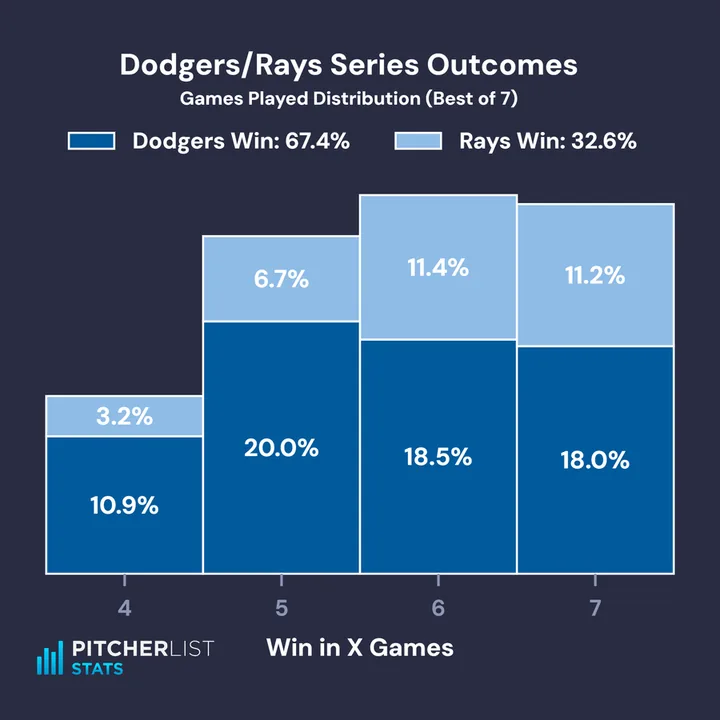
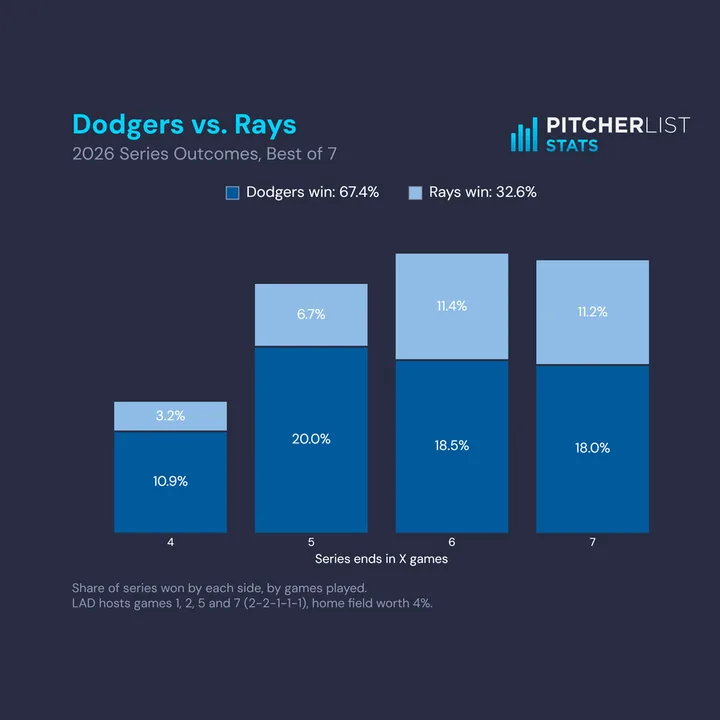
Series Win: Swing Profiles figures
Both charts now use the Swing Profiles figure template (teal matchup
title, muted subtitle, wordmark top right, footer note, regular-weight
axis text), with no gridlines and no x spine.

- Series win%: teal line with ringed markers and value labels; y axis
  trimmed to its first and last labelled ticks, labelled
  "<higher seed> Series Win%"; dashed 50% line.
- Outcomes: no y axis; team-coloured stacked bars, labels inside or in a
  team-coloured tag above thin slices; each side's series win% centred
  over the bars; a faint cross-hatch on the lower seed when the two team
  colours look alike (CIELAB distance under 30).

?style=app keeps the Streamlit app's figures. Homepage tile and README
updated.

Changed region(s): [[0.0611, 0.0611, 0.9472, 0.8556], [0.0306, 0.8861, 0.3056, 0.9472], [0.3667, 0.8861, 0.6417, 0.9167]]

diff --git a/series-win/chart.js b/series-win/chart.js
@@ -327,10 +327,265 @@
     if (opts.wordmark) ctx.drawImage(opts.wordmark, logo.x, logo.y, logo.w, logo.h);
   }
 
-  async function render(which, canvas, data, opts, scale = 2) {
+  // ---- the Swing Profiles style ------------------------------------------------------
+  //
+  // The page's figures: the same two charts in the Swing Profiles figure's clothes -- an
+  // 8 x 6 in figure at 200 dpi, its axes box (left 0.10, right 0.96, 0.95 in from the
+  // top, 1.08 in from the bottom), the matchup as a large teal title with a muted
+  // subtitle under it, the wordmark top right, regular-weight 9 / 10 pt axis text, 2 pt
+  // lines with surface-edged markers, and a footer note bottom left. No gridlines and no
+  // x spine; the series win% chart keeps a y axis trimmed to its ticks, the outcomes
+  // chart has none. (The app's own matplotlib look above is kept as ?style=app.)
+
+  const SW = {
+    w: 8, h: 6, left: 0.10, right: 0.96, top: 0.95, bottom: 1.08,
+    header: "#00D4FF", sub: "#8D96B3", chrome: "#8D96B3", line: "#00D4FF",
+  };
+
+  function swingFigure(canvas, scale) {
+    const W = SW.w * DPI, H = SW.h * DPI;
+    canvas.width = Math.round(W * scale); canvas.height = Math.round(H * scale);
+    const ctx = canvas.getContext("2d");
+    ctx.setTransform(scale, 0, 0, scale, 0, 0);
+    ctx.fillStyle = BACKGROUND;
+    ctx.fillRect(0, 0, W, H);
+    const ax = { x0: SW.left * W, x1: SW.right * W, y0: SW.top * DPI, y1: H - SW.bottom * DPI };
+    const font = (size, weight) => { ctx.font = `${weight} ${size * PT}px ${FONT}`; };
+    const text = (s, x, y, { size = 10, weight = 400, colour = WHITE, ha = "left", va = "alphabetic", rotate = 0 } = {}) => {
+      ctx.save();
+      font(size, weight);
+      ctx.fillStyle = colour;
+      ctx.textAlign = ha;
+      ctx.textBaseline = va;
+      ctx.translate(x, y);
+      if (rotate) ctx.rotate(rotate);
+      ctx.fillText(s, 0, 0);
+      ctx.restore();
+    };
+    const measure = (s, size, weight = 400) => { font(size, weight); return ctx.measureText(s).width; };
+    return { ctx, W, H, ax, text, measure };
+  }
+
+  // tick labels and axis labels, as Swing Profiles' styleAxis, without its gridlines.
+  // `y` is optional: { ticks, fmt, sy, label }.
+  function swingAxes(f, { xTicks, xFmt = String, sx, xLabel, y = null }) {
+    const { ax, text, measure } = f;
+    const tickPad = 3.5 * PT, labelPad = 4 * PT;
+    for (const v of xTicks) text(xFmt(v), sx(v), ax.y1 + tickPad, { size: 9, ha: "center", va: "top" });
+    text(xLabel, (ax.x0 + ax.x1) / 2, ax.y1 + tickPad + 9 * PT + labelPad, { size: 10, ha: "center", va: "top" });
+    if (!y) return;
+    let widest = 0;
+    for (const v of y.ticks) {
+      widest = Math.max(widest, measure(y.fmt(v), 9));
+      text(y.fmt(v), ax.x0 - tickPad, y.sy(v), { size: 9, ha: "right", va: "middle" });
+    }
+    text(y.label, ax.x0 - tickPad - widest - labelPad, (ax.y0 + ax.y1) / 2, { size: 10, ha: "center", va: "bottom", rotate: -Math.PI / 2 });
+  }
+  // the y spine alone, trimmed to run from the first labelled tick to the last
+  function ySpine(f, top, bottom) {
+    const { ctx, ax } = f;
+    ctx.save();
+    ctx.strokeStyle = SW.chrome;
+    ctx.lineWidth = 1 * PT;
+    ctx.lineCap = "butt";
+    ctx.beginPath();
+    ctx.moveTo(ax.x0, top); ctx.lineTo(ax.x0, bottom);
+    ctx.stroke();
+    ctx.restore();
+  }
+
+  // Two team colours "look alike" when they are under SIMILAR apart in CIELAB (CIE76):
+  // Dodgers/Yankees, Red Sox/Angels, Royals/Blue Jays do; Dodgers/Rays, Brewers/Athletics don't.
+  const SIMILAR = 30;
+  function lab(hex) {
+    const [r, g, b] = [1, 3, 5].map((i) => parseInt(hex.slice(i, i + 2), 16) / 255)
+      .map((c) => (c <= 0.04045 ? c / 12.92 : ((c + 0.055) / 1.055) ** 2.4));
+    const x = (r * 0.4124 + g * 0.3576 + b * 0.1805) / 0.95047, y = r * 0.2126 + g * 0.7152 + b * 0.0722,
+      z = (r * 0.0193 + g * 0.1192 + b * 0.9505) / 1.08883;
+    const f = (t) => (t > 0.008856 ? Math.cbrt(t) : 7.787 * t + 16 / 116);
+    return [116 * f(y) - 16, 500 * (f(x) - f(y)), 200 * (f(y) - f(z))];
+  }
+  function lookAlike(a, b) {
+    const A = lab(a), B = lab(b);
+    return Math.hypot(A[0] - B[0], A[1] - B[1], A[2] - B[2]) < SIMILAR;
+  }
+  // a faint cross-hatch over a rectangle (clipped to it, and to any clip already set)
+  function crossHatch(ctx, x, y, w, h) {
+    const step = 7 * PT;
+    ctx.save();
+    ctx.beginPath();
+    ctx.rect(x, y, w, h);
+    ctx.clip();
+    ctx.strokeStyle = "rgba(255,255,255,0.22)";
+    ctx.lineWidth = 0.8 * PT;
+    ctx.beginPath();
+    // anchored to the page, so stacked segments' hatches line up
+    for (let c = Math.floor((x - h) / step) * step; c <= x + w + h; c += step) {
+      ctx.moveTo(c, y); ctx.lineTo(c + h, y + h);
+      ctx.moveTo(c + h, y); ctx.lineTo(c, y + h);
+    }
+    ctx.stroke();
+    ctx.restore();
+  }
+
+  // title, subtitle, wordmark and the footer note (one sentence a line)
+  function swingChrome(f, title, subtitle, note, wordmark) {
+    const { ctx, W, H, text } = f;
+    text(title, SW.left * W, 0.25 * DPI, { size: 22, weight: 700, colour: SW.header, va: "top" });
+    text(subtitle, SW.left * W, 0.625 * DPI, { size: 14, colour: SW.sub, va: "top" });
+    const lines = note.split(/(?<=\.)\s+/).filter(Boolean);
+    const lineH = 7.5 * PT * 1.6, bottom = H - 0.22 * DPI;
+    lines.forEach((s, i) => text(s, SW.left * W, bottom - (lines.length - 1 - i) * lineH, { size: 10, colour: SW.chrome, va: "bottom" }));
+    if (wordmark) {
+      const w = 0.25 * W, h = w * (wordmark.height / wordmark.width);
+      ctx.drawImage(wordmark, SW.right * W - w, 0.3 * DPI, w, h);
+    }
+  }
+
+  function marker(ctx, x, y, colour) {
+    ctx.beginPath();
+    ctx.arc(x, y, 4 * PT, 0, Math.PI * 2);
+    ctx.fillStyle = colour;
+    ctx.fill();
+    ctx.strokeStyle = BACKGROUND;
+    ctx.lineWidth = 2 * PT;
+    ctx.stroke();
+  }
+
+  // who hosts: "hosts games 1, 2, 5 and 7 (2-2-1-1-1)"
+  function hostingNote(code, games, allHome) {
+    if (allHome) return `Every game at ${code}, home field worth 4%.`;
+    const s = schedule(games);
+    const home = s.map((h, i) => (h ? i + 1 : 0)).filter(Boolean);
+    const runs = [];
+    s.forEach((h, i) => (i && h === s[i - 1] ? runs[runs.length - 1]++ : runs.push(1)));
+    const list = home.length > 1 ? `${home.slice(0, -1).join(", ")} and ${home[home.length - 1]}` : String(home[0]);
+    return `${code} hosts games ${list} (${runs.join("-")}), home field worth 4%.`;
+  }
+
+  function drawLengthSwing(canvas, line, opts, scale) {
+    const f = swingFigure(canvas, scale), { ctx, ax, text } = f;
+    const vals = line.map(([, v]) => v);
+    const ylo = Math.min(0.3, Math.min(...vals) - 0.05), yhi = Math.max(0.7, Math.max(...vals) + 0.05);
+    const sx = (x) => ax.x0 + (x / (MAX_LEN + 1)) * (ax.x1 - ax.x0);
+    const sy = (y) => ax.y1 - ((y - ylo) / (yhi - ylo)) * (ax.y1 - ax.y0);
+    const yBins = Math.min(9, Math.floor((ax.y1 - ax.y0) / PT / 18));
+    const yTicks = niceTicks(ylo, yhi, yBins);
+    swingAxes(f, { xTicks: LENGTHS, sx, xLabel: "Series length (best of X)",
+      y: { ticks: yTicks, fmt: (v) => pct(v, 0), sy, label: `${opts.higher.name} Series Win%` } });
+    // the coin flip, dashed
+    ctx.save();
+    ctx.strokeStyle = SW.chrome;
+    ctx.lineWidth = 1 * PT;
+    ctx.setLineDash([4 * PT, 3 * PT]);
+    ctx.beginPath(); ctx.moveTo(ax.x0, sy(0.5)); ctx.lineTo(ax.x1, sy(0.5)); ctx.stroke();
+    ctx.restore();
+    ySpine(f, sy(yTicks[yTicks.length - 1]), sy(yTicks[0]));
+    ctx.save();
+    ctx.strokeStyle = SW.line;
+    ctx.lineWidth = 2 * PT;
+    ctx.lineCap = ctx.lineJoin = "round";
+    ctx.beginPath();
+    line.forEach(([x, y], i) => (i ? ctx.lineTo(sx(x), sy(y)) : ctx.moveTo(sx(x), sy(y))));
+    ctx.stroke();
+    ctx.restore();
+    for (const [x, y] of line) {
+      marker(ctx, sx(x), sy(y), SW.line);
+      text(Math.round(y * 1000) / 1000 < 1 ? pct(y) : "~100%", sx(x), sy(y) - 8 * PT, { size: 11, ha: "center", va: "bottom" });
+    }
+    const home = opts.allHome ? `, all @${opts.code}` : "";
+    swingChrome(f, `${opts.higher.name} over ${opts.lower.name}`, `${opts.season} Series Win%, by Series Length${home}`,
+      `Single game at a neutral site: ${opts.code} ${pct(opts.p)} (xWin%, log5). ` +
+      (opts.allHome ? `Every game at ${opts.code}, home field worth 4%.` : "Higher seed has home field, worth 4%."), opts.wordmark);
+  }
+
+  function drawOutcomesSwing(canvas, res, opts, scale) {
+    const f = swingFigure(canvas, scale), { ctx, ax, text, measure } = f;
+    const n = res.games;
+    const space = [];
+    for (let g = res.need; g <= n; g++) space.push(g);
+    const hi = space.map((g) => res.higher[g]), lo = space.map((g) => res.lower[g]);
+    const tallest = Math.max(...space.map((_, i) => hi[i] + lo[i]));
+    const x0 = space[0] - 0.5, x1 = space[space.length - 1] + 0.5, margin = 0.05 * (x1 - x0);
+    const sx = (x) => ax.x0 + ((x - (x0 - margin)) / (x1 - x0 + 2 * margin)) * (ax.x1 - ax.x0);
+    const ytop = tallest * 1.28;  // room for the key at the top
+    const sy = (y) => ax.y1 - (y / ytop) * (ax.y1 - ax.y0);
+    swingAxes(f, { xTicks: space, sx, xLabel: "Series ends in X games" });
+    // the lower seed's parts are hatched when its colour could pass for the higher seed's
+    const hatch = lookAlike(opts.higher.color, opts.lower.color);
+
+    // stacked bars, the higher seed at the bottom, split by a surface-coloured seam
+    const size = n >= 13 ? 9 : n >= 9 ? 10 : 11;
+    const labelH = size * PT * 1.25;
+    const halfW = 0.4;
+    const above = [];  // labels too big for their segment, stacked over the bar
+    space.forEach((g, i) => {
+      const segs = [[0, hi[i], opts.higher.color], [hi[i], hi[i] + lo[i], opts.lower.color]];
+      const l = sx(g - halfW), r = sx(g + halfW);
+      segs.forEach(([a, b, colour], k) => {
+        ctx.fillStyle = colour;
+        ctx.fillRect(l, sy(b), r - l, sy(a) - sy(b));
+        if (hatch && k === 1) crossHatch(ctx, l, sy(b), r - l, sy(a) - sy(b));
+      });
+      ctx.fillStyle = BACKGROUND;
+      ctx.fillRect(l, sy(hi[i]) - 0.75 * PT, r - l, 1.5 * PT);
+      const stack = [];
+      segs.forEach(([a, b, colour], k) => {
+        const s = b - a >= 0.0005 ? pct(b - a) : "~0%";
+        if (sy(a) - sy(b) >= labelH + 4 * PT) text(s, (l + r) / 2, (sy(a) + sy(b)) / 2, { size, ha: "center", va: "middle" });
+        else stack.push([s, colour, hatch && k === 1]);
+      });
+      above.push([g, hi[i] + lo[i], stack]);
+    });
+    // a label that doesn't fit sits over its bar in a pill of its team's colour
+    for (const [g, top, stack] of above) {
+      let y = sy(top) - 4 * PT;
+      for (const [s, colour, hatched] of stack) {  // in the bar's order: the higher seed's lowest
+        const w = measure(s, size) + 8 * PT, h = labelH + 2 * PT;
+        ctx.beginPath();
+        ctx.roundRect(sx(g) - w / 2, y - h, w, h, 3 * PT);
+        ctx.fillStyle = colour;
+        ctx.fill();
+        if (hatched) { ctx.save(); ctx.clip(); crossHatch(ctx, sx(g) - w / 2, y - h, w, h); ctx.restore(); }
+        ctx.beginPath();
+        ctx.roundRect(sx(g) - w / 2, y - h, w, h, 3 * PT);
+        ctx.strokeStyle = SW.chrome;
+        ctx.lineWidth = 0.8 * PT;
+        ctx.stroke();
+        text(s, sx(g), y - h / 2, { size, ha: "center", va: "middle" });
+        y -= h + 3 * PT;
+      }
+    }
+
+    // the key: each side's colour and series win%, centred over the bars
+    const ky = ax.y0 + 14 * PT, sw = 10 * PT, gap = 6 * PT, between = 24 * PT;
+    const items = [[opts.higher, res.win, false], [opts.lower, 1 - res.win, hatch]].map(([team, v, hatched]) => {
+      const s = `${team.name} win: ${pct(v)}`;
+      return { team, s, hatched, w: sw + gap + measure(s, 12) };
+    });
+    let kx = (ax.x0 + ax.x1) / 2 - (items[0].w + between + items[1].w) / 2;
+    for (const it of items) {
+      ctx.fillStyle = it.team.color;
+      ctx.fillRect(kx, ky - sw / 2, sw, sw);
+      if (it.hatched) crossHatch(ctx, kx, ky - sw / 2, sw, sw);
+      ctx.strokeStyle = SW.chrome;
+      ctx.lineWidth = 0.8 * PT;
+      ctx.strokeRect(kx, ky - sw / 2, sw, sw);
+      text(it.s, kx + sw + gap, ky, { size: 12, va: "middle" });
+      kx += it.w + between;
+    }
+
+    const home = opts.allHome ? `, all @${opts.code}` : "";
+    swingChrome(f, `${opts.higher.name} vs. ${opts.lower.name}`, `${opts.season} Series Outcomes, Best of ${n}${home}`,
+      `Share of series won by each side, by games played. ${hostingNote(opts.code, n, opts.allHome)}`, opts.wordmark);
+  }
+
+  async function render(which, canvas, data, opts, scale = 2, style = "app") {
     await ensureFonts();
+    if (style === "swing" && document.fonts) { try { await document.fonts.load(`400 40px ${FONT}`); } catch { /* fallback */ } }
     const wordmark = await loadWordmark();
-    (which === "length" ? drawLength : drawOutcomes)(canvas, data, { ...opts, wordmark }, scale);
+    const draw = style === "swing" ? (which === "length" ? drawLengthSwing : drawOutcomesSwing) : (which === "length" ? drawLength : drawOutcomes);
+    draw(canvas, data, { ...opts, wordmark }, scale);
   }
 
   window.SeriesWin = { HFA, MAX_LEN, LENGTHS, xWin, log5, schedule, series, byLength, render };

diff --git a/series-win/app.js b/series-win/app.js
@@ -23,6 +23,9 @@
     143: "#E81828", 144: "#CE1141", 145: "#27251F", 146: "#00A3E0", 147: "#003087", 158: "#12284B",
   };
   const FIRST_SEASON = 2000;
+  // the figures are drawn in the Swing Profiles style; ?style=app draws the Streamlit app's
+  const STYLE = new URLSearchParams(location.search).get("style") === "app" ? "app" : "swing";
+  const FIG_W = STYLE === "swing" ? { length: 1600, games: 1600 } : { length: 1064, games: 970 };
   const THIS_YEAR = new Date().getFullYear();
 
   const status = (text, cls = "") => { el.status.textContent = text; el.status.className = `status ${cls}`.trim(); };
@@ -195,13 +198,13 @@
     const opts = { hfa: S.HFA, allHome: sel.allHome };
     const line = S.byLength(p, opts);
     const res = S.series(p, sel.games, opts);
-    const figOpts = { higher: h, lower: l, p, allHome: sel.allHome, code: h.code };
+    const figOpts = { higher: h, lower: l, p, allHome: sel.allHome, code: h.code, season };
 
     el.out.hidden = false;  // shown first, so the canvases have a width to size to
     const scale = (canvas, w) => Math.max(1, Math.min(2, (canvas.clientWidth || 800) * (window.devicePixelRatio || 1) / w));
     await Promise.all([
-      S.render("length", el.figLength, line, figOpts, scale(el.figLength, 1064)),
-      S.render("games", el.figGames, res, figOpts, scale(el.figGames, 970)),
+      S.render("length", el.figLength, line, figOpts, scale(el.figLength, FIG_W.length), STYLE),
+      S.render("games", el.figGames, res, figOpts, scale(el.figGames, FIG_W.games), STYLE),
     ]);
     if (token !== drawing) return;
 
@@ -259,7 +262,7 @@
   async function download(which) {
     if (!drawn) return;
     const d = drawn, c = document.createElement("canvas");
-    await S.render(which, c, which === "length" ? d.line : d.res, d.figOpts, 2);
+    await S.render(which, c, which === "length" ? d.line : d.res, d.figOpts, 2, STYLE);
     const stem = `${d.sel.season}_${d.sel.higher.code}_${d.sel.lower.code}`.toLowerCase();
     const name = which === "length" ? `series_win_${stem}` : `series_outcomes_${stem}_bo${d.sel.games}`;
     c.toBlob((b) => save(b, `${name}${d.sel.allHome ? "_all_home" : ""}.png`), "image/png");

diff --git a/index.html b/index.html
@@ -124,7 +124,7 @@
 								</article>
 									<article class="style3">
 									<span class="image">
-										<img src="images/tile-series-win.webp?v=1" srcset="images/tile-series-win-720.webp?v=1 720w, images/tile-series-win.webp?v=1 900w" sizes="(max-width: 480px) 100vw, (max-width: 980px) 50vw, 380px" width="900" height="900" alt="Dodgers over Rays series outcomes, best of 7" />
+										<img src="images/tile-series-win.webp?v=2" srcset="images/tile-series-win-720.webp?v=2 720w, images/tile-series-win.webp?v=2 900w" sizes="(max-width: 480px) 100vw, (max-width: 980px) 50vw, 380px" width="900" height="900" alt="Dodgers vs. Rays series outcomes, best of 7" />
 									</span>
 									<a href="/series-win/">
 										<h2>Series Win</h2>

diff --git a/series-win/index.html b/series-win/index.html
@@ -133,7 +133,7 @@ details[open] summary{margin-bottom:10px}
     </details>
   </section>
 </main>
-<script src="chart.js?v=1"></script>
-<script src="app.js?v=2"></script>
+<script src="chart.js?v=4"></script>
+<script src="app.js?v=4"></script>
 </body>
 </html>

diff --git a/tools/homepage/make_tiles.py b/tools/homepage/make_tiles.py
@@ -36,7 +36,7 @@ CROPS = {
     "swing-profiles": None,          # padded: a square crop cuts the axis label and the wordmark
     "batted-balls": None,            # padded, not cropped: the wordmark and data credit sit at the edges
     "release-angles": (0.5, 0.0),   # the figure with its title; trims the footer
-    "series-win": None,              # padded: the legend and the wordmark sit at the edges
+    "series-win": None,              # padded: the title and wordmark sit at the edges
     "nhl-draft": (0.0, 0.0),         # top of the options table
 }
 

diff --git a/README.md b/README.md
@@ -515,8 +515,21 @@ all home games (teams by MLB abbreviation, e.g. `#2026-LAD-TB&games=7`).
 
 It is [baseball_snippets `mlb_series_win.py`](https://github.com/Blandalytics/baseball_snippets/blob/main/mlb_series_win.py)
 (the [mlb-series-win.streamlit.app](https://mlb-series-win.streamlit.app/) app) ported to the
-browser: the same model, schedule and two figures, laid out in the pixels of the script's
-200 dpi matplotlib output. It departs from the script in three places:
+browser: the same model, schedule and two charts. It departs from the script in four places:
+
+- **Swing Profiles figures.** Both charts wear the Swing Profiles figure's template: 8 × 6 in at
+  200 dpi with its axes box, the matchup as the large teal title over a muted subtitle, the
+  Pitcher List Stats wordmark top right, regular-weight axis text and a footer note. Neither has
+  gridlines or an x spine. The series win% chart is a teal line with ringed markers and plain
+  value labels, over a y axis (`<higher seed> Series Win%`) trimmed to its first and last
+  labelled ticks, with a dashed 50% line. The outcomes chart has no y axis at all: team-coloured
+  stacked bars (higher seed below) labelled inside, or above the bar in a tag of the team's colour
+  when a slice is too thin, and each side's series win% centred over the bars. When the two
+  teams' colours look alike (under 30 apart in CIELAB, e.g. Dodgers/Yankees, Red Sox/Angels,
+  or a team against itself) the lower seed's slices, tags and key swatch get a faint
+  cross-hatch. The footer notes carry the neutral-site single-game chance and who hosts which
+  games (`LAD hosts games 1, 2, 5 and 7 (2-2-1-1-1)`). `?style=app` draws the Streamlit app's
+  own matplotlib figures instead, laid out in the pixels of its 200 dpi output.
 
 - **Exact, not simulated.** The script plays 100,000 (and 250,000) random series; the page sums
   every path to a clinch, so its numbers are the ones the simulations scatter around (within
@@ -538,7 +551,7 @@ open 2-2 and then alternate from home (2-2-1, 2-2-1-1-1, …), the script's sche
 
 | file | role |
 |---|---|
-| `series-win/chart.js` | the model (xWin%, log5, schedule, the exact series) and the two figures, drawn on a canvas at any scale |
+| `series-win/chart.js` | the model (xWin%, log5, schedule, the exact series) and the two figures in both styles (Swing Profiles, the default; the app's, `?style=app`), drawn on a canvas at any scale |
 | `series-win/index.html`, `app.js` | the page: season, seed, length and home controls, the StatsAPI fetch, downloads, the link hash |
 
 After any change to the JavaScript, bump the `?v=` query on the two script tags in `index.html`
